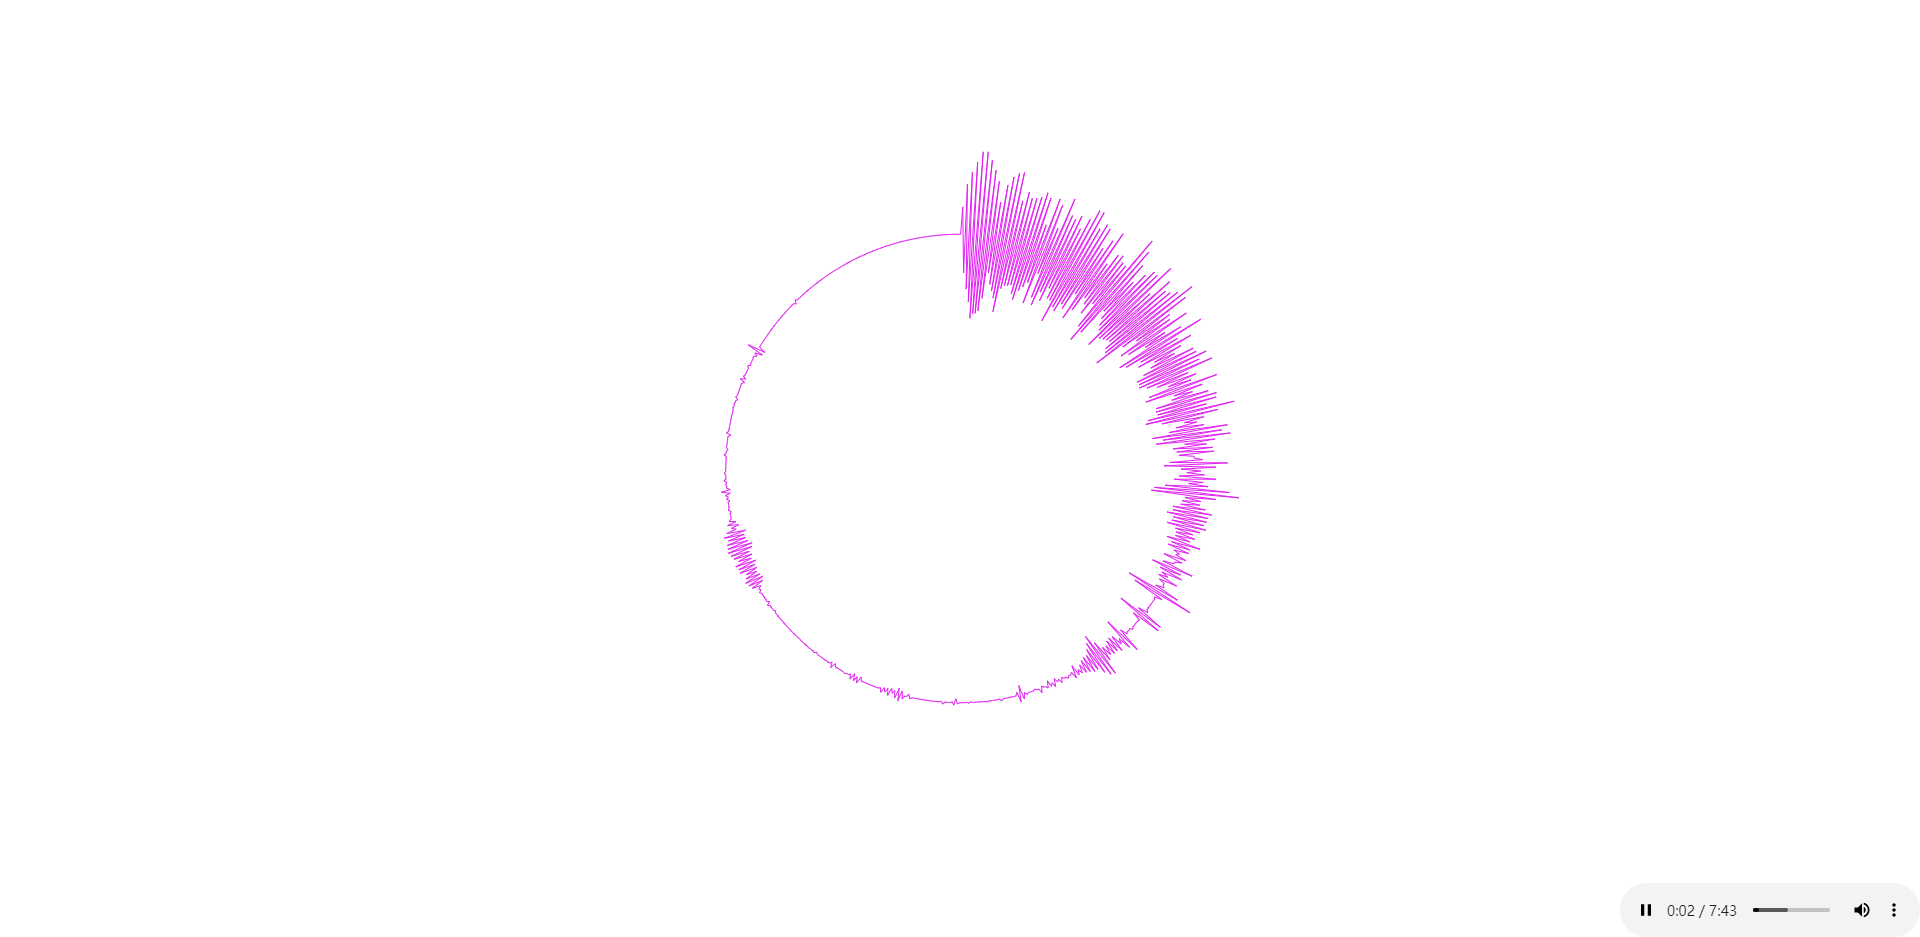
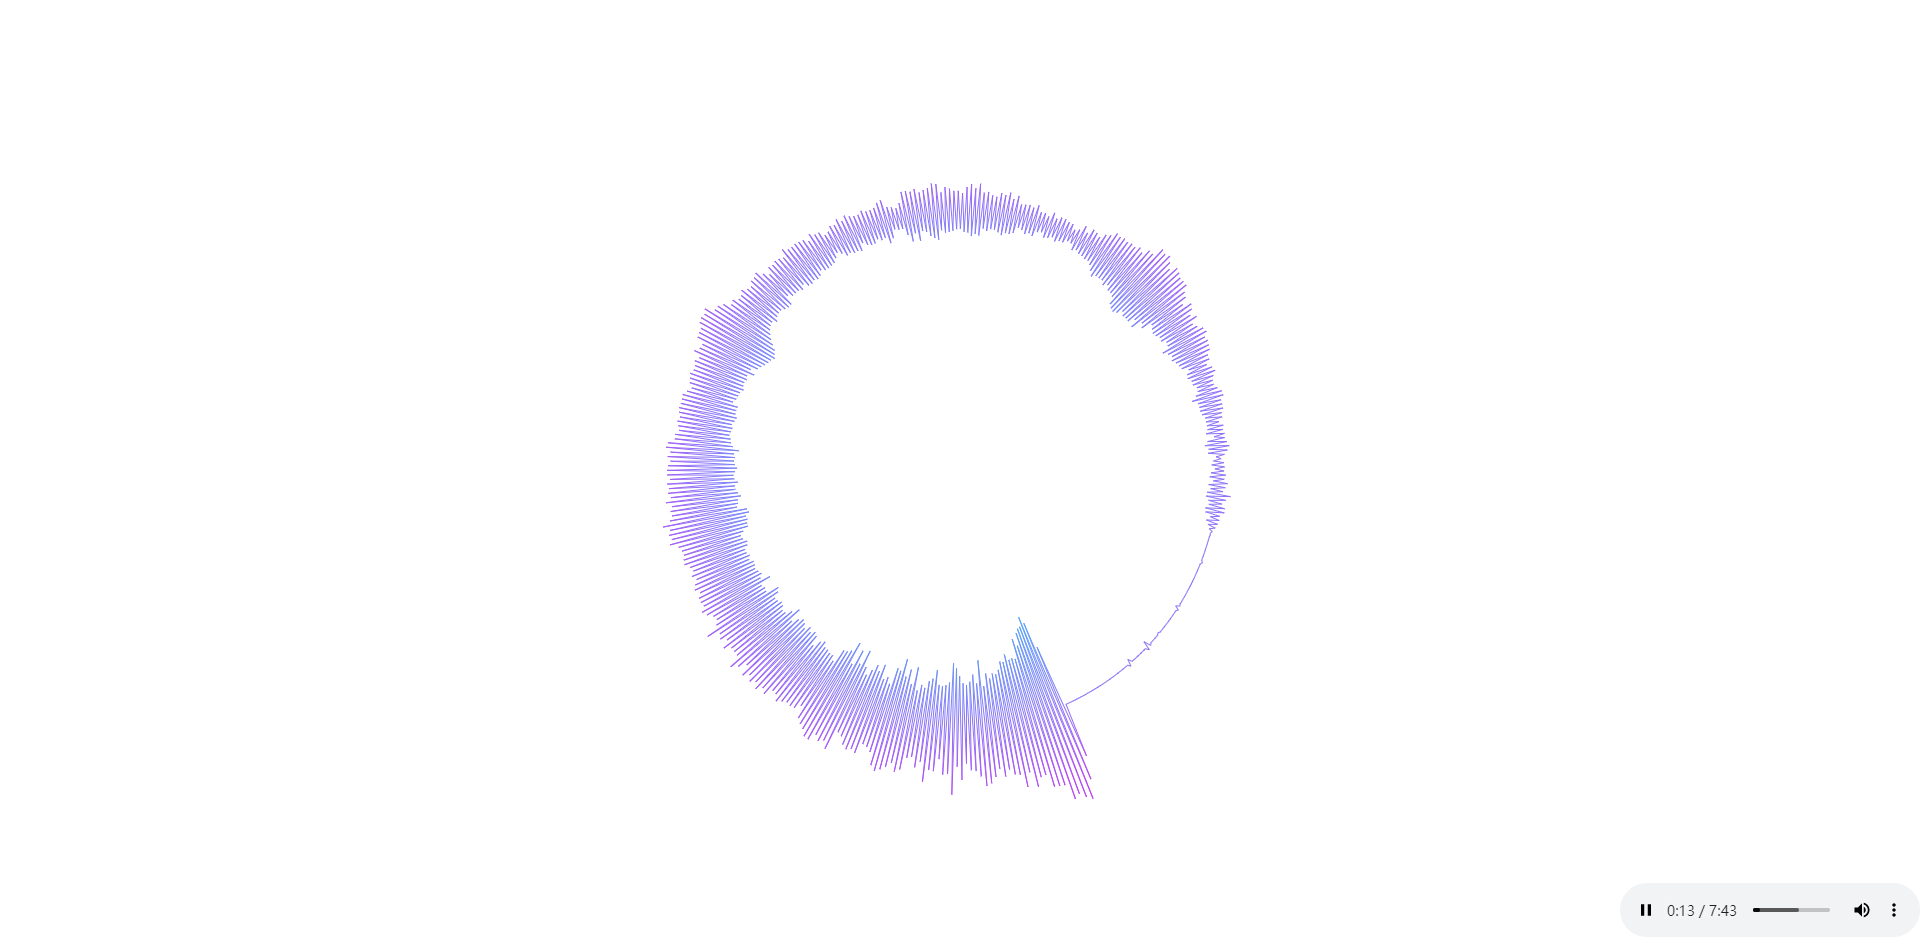
update

Changed region(s): [[0.3438, 0.1857, 0.6562, 0.8356]]

diff --git a/dist/index.iife.js b/dist/index.iife.js
@@ -13014,6 +13014,7 @@ var WebAudioWave = (function (exports) {
       mirror: false,
       period: context.rate * 10,
       base: Math.min(context.width, context.height) / 4,
+      baseDynamic: false,
       amplitude: Math.min(context.width, context.height) / 4,
       smooth: false,
       clockwise: true,
@@ -13024,6 +13025,9 @@ var WebAudioWave = (function (exports) {
    */
   class Round extends Graph {
       time = 0;
+      get maxRadius() {
+          return Math.min(this.context.width, this.context.height) / 2;
+      }
       /**
        * 构造方法
        * @param context 上下文
@@ -13048,7 +13052,7 @@ var WebAudioWave = (function (exports) {
           brush.strokeStyle = this.option.color;
           brush.lineWidth = this.option.width;
           if (this.option.gradientColor?.length) {
-              let gradient = brush.createLinearGradient(this.visualize.wrap[0], 0, this.visualize.wrap[0] + this.visualize.wrap[2], 0);
+              let gradient = brush.createRadialGradient(0, 0, 0, 0, 0, this.maxRadius);
               for (let i = 0, l = this.option.gradientColor.length; i < l; i++) {
                   gradient.addColorStop((1 / (l - 1)) * i, this.option.gradientColor[i]);
               }
@@ -13064,14 +13068,16 @@ var WebAudioWave = (function (exports) {
           if (this.option.mirror) {
               d = d.concat(Array.from(d).reverse());
           }
+          let average = mean(data);
           let brush = this.visualize.brush;
           this.visualize.update(() => {
               let offset = Math.PI * 2 * (this.time / this.option.period);
               let delta = (Math.PI * 2) / d.length;
+              let base = this.option.base + (this.option.baseDynamic ? average * this.option.amplitude : 0);
               let direction = 1;
               let points = d.map((a, i) => {
                   let radian = i * delta * (this.option.clockwise ? 1 : -1) + offset * this.option.rotate;
-                  let radius = a * this.option.amplitude * direction + this.option.base;
+                  let radius = a * this.option.amplitude * direction + base;
                   let x = Math.cos(radian) * radius;
                   let y = Math.sin(radian) * radius;
                   direction *= -1;
@@ -13079,7 +13085,7 @@ var WebAudioWave = (function (exports) {
               });
               let path = pathCurve(points, this.option.smooth ? 'bezier' : undefined, { close: true });
               if (this.option.dynamicColor?.length === 2) {
-                  let color = calcDeltaColor(this.option.dynamicColor[0], this.option.dynamicColor[1], mean(data));
+                  let color = calcDeltaColor(this.option.dynamicColor[0], this.option.dynamicColor[1], average);
                   brush.strokeStyle = color;
               }
               brush.stroke(path);

diff --git a/dist/index.js b/dist/index.js
@@ -799,6 +799,7 @@ var preset = {
   mirror: false,
   period: context.rate * 10,
   base: Math.min(context.width, context.height) / 4,
+  baseDynamic: false,
   amplitude: Math.min(context.width, context.height) / 4,
   smooth: false,
   clockwise: true,
@@ -843,6 +844,11 @@ var Round = /*#__PURE__*/function (_Graph5) {
 
 
   _createClass(Round, [{
+    key: "maxRadius",
+    get: function get() {
+      return Math.min(this.context.width, this.context.height) / 2;
+    }
+  }, {
     key: "config",
     value: function config(option) {
       var _this$option$gradient4;
@@ -854,7 +860,7 @@ var Round = /*#__PURE__*/function (_Graph5) {
       brush.lineWidth = this.option.width;
 
       if ((_this$option$gradient4 = this.option.gradientColor) !== null && _this$option$gradient4 !== void 0 && _this$option$gradient4.length) {
-        var gradient = brush.createLinearGradient(this.visualize.wrap[0], 0, this.visualize.wrap[0] + this.visualize.wrap[2], 0);
+        var gradient = brush.createRadialGradient(0, 0, 0, 0, 0, this.maxRadius);
 
         for (var i = 0, l = this.option.gradientColor.length; i < l; i++) {
           gradient.addColorStop(1 / (l - 1) * i, this.option.gradientColor[i]);
@@ -884,17 +890,19 @@ var Round = /*#__PURE__*/function (_Graph5) {
         d = _concatInstanceProperty(d).call(d, _reverseInstanceProperty(_context10 = _Array$from(d)).call(_context10));
       }
 
+      var average = mean(data);
       var brush = this.visualize.brush;
       this.visualize.update(function () {
         var _this10$option$dynami;
 
         var offset = Math.PI * 2 * (_this10.time / _this10.option.period);
         var delta = Math.PI * 2 / d.length;
+        var base = _this10.option.base + (_this10.option.baseDynamic ? average * _this10.option.amplitude : 0);
         var direction = 1;
 
         var points = _mapInstanceProperty(d).call(d, function (a, i) {
           var radian = i * delta * (_this10.option.clockwise ? 1 : -1) + offset * _this10.option.rotate;
-          var radius = a * _this10.option.amplitude * direction + _this10.option.base;
+          var radius = a * _this10.option.amplitude * direction + base;
           var x = Math.cos(radian) * radius;
           var y = Math.sin(radian) * radius;
           direction *= -1;
@@ -906,7 +914,7 @@ var Round = /*#__PURE__*/function (_Graph5) {
         });
 
         if (((_this10$option$dynami = _this10.option.dynamicColor) === null || _this10$option$dynami === void 0 ? void 0 : _this10$option$dynami.length) === 2) {
-          var color = calcDeltaColor(_this10.option.dynamicColor[0], _this10.option.dynamicColor[1], mean(data));
+          var color = calcDeltaColor(_this10.option.dynamicColor[0], _this10.option.dynamicColor[1], average);
           brush.strokeStyle = color;
         }
 

diff --git a/src/module/round.ts b/src/module/round.ts
@@ -16,6 +16,7 @@ const preset = {
   mirror: false,
   period: Context.rate * 10, // 旋转周期，帧数
   base: Math.min(Context.width, Context.height) / 4, // 基础半径
+  baseDynamic: false,
   amplitude: Math.min(Context.width, Context.height) / 4, // 振幅
   smooth: false,
   clockwise: true,
@@ -29,6 +30,10 @@ type Option = typeof preset
  */
 class Round extends Graph<Option> {
   private time = 0
+
+  private get maxRadius() {
+    return Math.min(this.context.width, this.context.height) / 2
+  }
 
   /**
    * 构造方法
@@ -71,7 +76,7 @@ class Round extends Graph<Option> {
     brush.lineWidth = this.option.width
 
     if (this.option.gradientColor?.length) {
-      let gradient = brush.createLinearGradient(this.visualize.wrap[0], 0, this.visualize.wrap[0] + this.visualize.wrap[2], 0)
+      let gradient = brush.createRadialGradient(0, 0, 0, 0, 0, this.maxRadius)
       for (let i = 0, l = this.option.gradientColor.length; i < l; i++) {
         gradient.addColorStop((1 / (l - 1)) * i, this.option.gradientColor[i])
       }
@@ -88,16 +93,18 @@ class Round extends Graph<Option> {
     if (this.option.mirror) {
       d = d.concat(Array.from(d).reverse())
     }
+    let average = mean(data)
     let brush = this.visualize.brush
 
     this.visualize.update(() => {
       let offset = Math.PI * 2 * (this.time / this.option.period)
       let delta = (Math.PI * 2) / d.length
+      let base = this.option.base + (this.option.baseDynamic ? average * this.option.amplitude : 0)
 
       let direction = 1
       let points = d.map((a, i) => {
         let radian = i * delta * (this.option.clockwise ? 1 : -1) + offset * this.option.rotate
-        let radius = a * this.option.amplitude * direction + this.option.base
+        let radius = a * this.option.amplitude * direction + base
         let x = Math.cos(radian) * radius
         let y = Math.sin(radian) * radius
 
@@ -108,7 +115,7 @@ class Round extends Graph<Option> {
       let path = PathCurve(points, this.option.smooth ? 'bezier' : undefined, { close: true })
 
       if (this.option.dynamicColor?.length === 2) {
-        let color = CalcDeltaColor(this.option.dynamicColor[0], this.option.dynamicColor[1], mean(data))
+        let color = CalcDeltaColor(this.option.dynamicColor[0], this.option.dynamicColor[1], average)
         brush.strokeStyle = color
       }
 

diff --git a/dist/module/round.d.ts b/dist/module/round.d.ts
@@ -10,6 +10,7 @@ declare const preset: {
     mirror: boolean;
     period: number;
     base: number;
+    baseDynamic: boolean;
     amplitude: number;
     smooth: boolean;
     clockwise: boolean;
@@ -21,6 +22,7 @@ declare type Option = typeof preset;
  */
 declare class Round extends Graph<Option> {
     private time;
+    private get maxRadius();
     /**
      * 构造方法
      * @param context 上下文

diff --git a/demo/round.html b/demo/round.html
@@ -25,10 +25,11 @@
           'round',
           { size: 1024, slice: [0, 800] },
           {
-            dynamicColor: ['#ff00f0', '#00ffff'],
-            width: 1,
+            gradientColor: ['#00ffff', '#ff00f0'],
+            period: 1000,
             amplitude: 100,
-            rotate: -1
+            rotate: -1,
+            baseDynamic: true
           }
         )
       })
